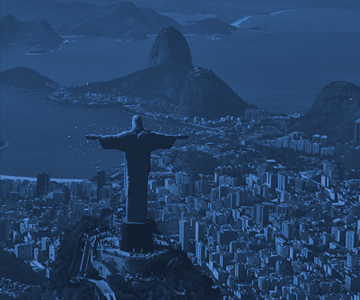
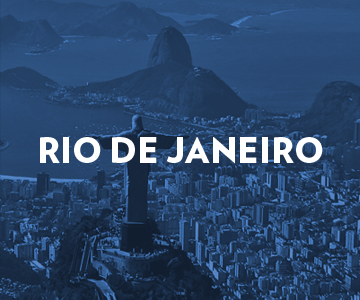
correções

Changed region(s): [[0.0917, 0.45, 0.9167, 0.57]]

diff --git a/wp-content/themes/3a/style.css b/wp-content/themes/3a/style.css
@@ -137,7 +137,7 @@ Theme Name: 3A WorldWide
 }
 
 /*--------------------------------------------------------------------------------------------------------------------
-| GenÃ©ricos
+| GenÃƒÂ©ricos
 --------------------------------------------------------------------------------------------------------------------*/
 body
 {
@@ -451,7 +451,7 @@ div.bio p
 /* -------------- END Hover imagens da equipe ------------*/
 
 /*--------------------------------------------------------------------------------------------------------------------
-| PrÃªmios
+| PrÃƒÂªmios
 --------------------------------------------------------------------------------------------------------------------*/
 
 .blocos-premios img
@@ -483,7 +483,7 @@ div.bio p
 }
 
 /*--------------------------------------------------------------------------------------------------------------------
-| ServiÃ§os
+| ServiÃƒÂ§os
 --------------------------------------------------------------------------------------------------------------------*/
 
 .servicos .titulo h2
@@ -504,7 +504,7 @@ div.bio p
     float: left;
 }
 
-/*************************** Ãcones ***************************/
+/*************************** ÃƒÂcones ***************************/
 
 .servicos .item 
 {
@@ -515,7 +515,7 @@ div.bio p
     height: 219px;
 }
 
-/* Ãcones em posiÃ§Ã£o normal */
+/* ÃƒÂcones em posiÃƒÂ§ÃƒÂ£o normal */
 
 .servicos .item.midia .icone
 {
@@ -550,7 +550,7 @@ div.bio p
     background-position: -43px 0;
 }
 
-/* Ãcones Clicados */
+/* ÃƒÂcones Clicados */
 
 .servicos .item.ativo.midia .icone    { background-position: -56px 0; }
 .servicos .item.ativo.relacoes .icone { background-position: -48px 0; }
@@ -600,7 +600,7 @@ div.bio p
     background-color: #4579bd;
 }
 
-/*************************** ConteÃºdo ***************************/
+/*************************** ConteÃƒÂºdo ***************************/
 
 .servicos.conteudo
 {
@@ -642,7 +642,7 @@ div.bio p
 }
 
 .servicos.conteudo ul li:before {
-    content: "• ";
+    content: "â€¢ ";
     color: #4579bd;
     margin-right: 10px;
 }
@@ -688,7 +688,7 @@ div.espacamento
 
 .parallax
 {
-    margin: 50px 0;
+    margin: 50px 0 0 0;
     padding: 100px 0;
     background-attachment: fixed;
 }
@@ -818,9 +818,9 @@ a.visitar
     text-align: center;
 }
 
-div.titulo
-{
-    margin-bottom: 80px;
+.principal p{
+    font-family: 'verlag-book';
+    font-size: 20px;
 }
 
 /*--------------------------------------------------------------------------------------------------------------------
@@ -858,7 +858,7 @@ div.titulo
     text-transform: uppercase;
 }
 .lista-3a li:before{
-    content: "• ";
+    content: "â€¢ ";
 }
 
 .lista-3a li.america-do-sul:before{
@@ -873,15 +873,20 @@ div.titulo
 .lista-3a li.europa:before{
     color: #d23138;
 }
+.container-fluid.mapa .row h3{
+    text-align: center;
+    font-size: 35px;
+    font-family: 'verlag-bold';
+}
 
 /*--------------------------------------------------------------------------------------------------------------------
-| Formulário de Contato
+| FormulÃ¡rio de Contato
 --------------------------------------------------------------------------------------------------------------------*/
 
 .container-fluid.form-contato
 {
-	background-color: #fafafa;
-	padding-top: 80px;
+    background-color: #fafafa;
+    padding-top: 80px;
 }
 
 .form-contato input[type=text], 
@@ -903,36 +908,36 @@ div.titulo
 
 .form-contato input[type=submit]
 {
-	margin: 0 auto;
-	display: block;
-	background: transparent;
-	border: 2px solid #010202;
-	color: #010202;
-	font-family: 'verlag-black';
-	font-size: 12px;
-	text-transform: uppercase;
-	padding: 10px 50px;
-	outline: none;
+    margin: 0 auto;
+    display: block;
+    background: transparent;
+    border: 2px solid #010202;
+    color: #010202;
+    font-family: 'verlag-black';
+    font-size: 12px;
+    text-transform: uppercase;
+    padding: 10px 50px;
+    outline: none;
 }
 
 .container.trabalhe-conosco
 {
-	margin-top: 100px;
+    margin-top: 100px;
 }
 
 .trabalhe-conosco p.negrito
 {
-	font-family: 'verlag-bold';
-	font-size: 20px;
-	text-transform: uppercase;
-	text-align: center;
+    font-family: 'verlag-bold';
+    font-size: 20px;
+    text-transform: uppercase;
+    text-align: center;
 }
 
 .trabalhe-conosco p.email
 {
-	font-family: 'verlag-book';
-	font-size: 16px;
-	text-align: center;
+    font-family: 'verlag-book';
+    font-size: 16px;
+    text-align: center;
 }
 
 ::-webkit-input-placeholder 
@@ -969,27 +974,27 @@ div.titulo
 
 .container-fluid.redes-sociais
 {
-	background: #4579bd;
-	padding: 49px 0;
-	margin-top: 80px;
+    background: #4579bd;
+    padding: 49px 0;
+    margin-top: 80px;
 }
 
 .redes-sociais .icone
 {
-	text-align: center
+    text-align: center
 }
 
 .redes-sociais .icone a 
 {
-	border-radius: 50%;
-	width: 100px;
-	display: block;
-	height: 100px;
-	padding-top: 10px;
-	margin: 0 auto;
-	background: rgba(255, 255, 255, 0.1);
+    border-radius: 50%;
+    width: 100px;
+    display: block;
+    height: 100px;
+    padding-top: 10px;
+    margin: 0 auto;
+    background: rgba(255, 255, 255, 0.1);
 
-	transition: all 0.2s ease-in;
+    transition: all 0.2s ease-in;
     -webkit-transition: all 0.2s ease-in;
     -moz-transition: all 0.2s ease-in;
 }
@@ -1007,7 +1012,7 @@ div.titulo
 
 .icone a:hover .borda 
 {
-	border: 2px solid #fff;
+    border: 2px solid #fff;
     height: 100px;
     width: 100px;
 
@@ -1018,9 +1023,9 @@ div.titulo
 
 .icone a:hover
 {
-	background: transparent;
+    background: transparent;
 
-	transition: all 0.2s ease-in;
+    transition: all 0.2s ease-in;
     -webkit-transition: all 0.2s ease-in;
     -moz-transition: all 0.2s ease-in;
 }
@@ -1053,6 +1058,14 @@ div.titulo
 {
    
 }
+.container-fluid.footer{
+    text-align: center;
+    height: 60px;
+    padding: 20px;
+    font-size: 12px;
+    font-family: arial;
+    color: #a0a0a0;
+}
 
 /*--------------------------------------------------------------------------------------------------------------------
 | Contato
@@ -1078,15 +1091,18 @@ div.titulo
 }
 .bloco a
 {  
+    margin: 0 auto;
+    display: block;
+    background: transparent;
+    border: 2px solid #010202;
+    color: #010202;
     font-family: 'verlag-black';
     font-size: 12px;
-    color: #231f20;
-    border: 1px solid;
-    padding: 5px 10px;
-    float: left;
-    margin: 10px 0 0 10px;
-    display: block;
+    text-transform: uppercase;
+    padding: 10px 20px;
+    outline: none;
     text-decoration: none;
+    float: left;
 
     transition: all 0.2s ease-in;
     -moz-transition: all 0.2s ease-in;
@@ -1095,17 +1111,17 @@ div.titulo
 
 .bloco a.ativo
 {
-	background: #231f20;
-	color: #fff;
+    background: #231f20;
+    color: #fff;
 
-	transition: all 0.2s ease-in;
+    transition: all 0.2s ease-in;
     -moz-transition: all 0.2s ease-in;
     -webkit-transition: all 0.2s ease-in;
 }
 
 .container-fluid.mapa-contato
 {
-	padding: 0;
+    padding: 0;
 }
 
 .mapa-rio-de-janeiro{

diff --git a/wp-content/themes/3a/sections/3ainternacional.php b/wp-content/themes/3a/sections/3ainternacional.php
@@ -13,7 +13,7 @@
 				<div class="borda-azul"></div>
 			</div>
 
-			<div class="principal"><?php echo apply_filters("the_content", $pagina->post_content); ?></div>
+			<div class="principal"><p><?php echo apply_filters("the_content", $pagina->post_content); ?></p></div>
 
 		</div>
 

diff --git a/wp-content/themes/3a/sections/redes-sociais.php b/wp-content/themes/3a/sections/redes-sociais.php
@@ -42,3 +42,6 @@
 
 	</div>
 </div>
+	<div class="container-fluid footer">
+		<p>©Copyright 2015 by 3A worldwide Todos os direitos reservados</p>
+	</div>
